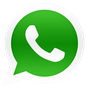
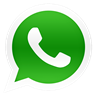
Corregir iconos WhatsApp y LinkedIn borrosos en pantallas retina.
Se elimina srcset conflictivo, se actualizan PNG en HD y se ajusta el hover en CSS.

diff --git a/index.html b/index.html
@@ -53,7 +53,7 @@
   <link rel="preconnect" href="https://fonts.googleapis.com">
   <link rel="preconnect" href="https://fonts.gstatic.com" crossorigin>
   <link href="https://fonts.googleapis.com/css2?family=Poppins:wght@300;400;600&display=swap" rel="stylesheet">
-  <link rel="stylesheet" href="./style.css?v=icons-hd">
+  <link rel="stylesheet" href="./style.css?v=icons-hd3">
 </head>
 
 <body>
@@ -71,11 +71,11 @@
       <div class="nav-actions header-dock" aria-label="Contacto rápido">
         <a class="icon-btn wa" href="https://wa.me/5492612084544" target="_blank" rel="noopener"
           aria-label="WhatsApp">
-          <img src="iconos/580b57fcd9996e24bc43c543.png" srcset="iconos/580b57fcd9996e24bc43c543-2x.png 2x" alt="WhatsApp" width="22" height="22" decoding="async">
+          <img src="iconos/580b57fcd9996e24bc43c543.png?v=icons-hd3" alt="WhatsApp" width="22" height="22" decoding="async">
         </a>
         <a class="icon-btn li" href="https://www.linkedin.com/in/adrian-fredes-8b57922b7" target="_blank"
           rel="noopener" aria-label="LinkedIn">
-          <img src="iconos/b1351064-f24b-4d0e-ba5a-2d9ef2cbc1e8.png" alt="LinkedIn" width="22" height="22" decoding="async">
+          <img src="iconos/b1351064-f24b-4d0e-ba5a-2d9ef2cbc1e8.png?v=icons-hd3" alt="LinkedIn" width="22" height="22" decoding="async">
         </a>
         <a class="icon-btn gh" href="https://github.com/adrianfredess" target="_blank" rel="noopener"
           aria-label="GitHub">
@@ -112,11 +112,11 @@
       <div class="mobile-actions" aria-label="Contacto rápido">
         <a class="icon-btn wa" href="https://wa.me/5492612084544" target="_blank" rel="noopener"
           aria-label="WhatsApp">
-          <img src="iconos/580b57fcd9996e24bc43c543.png" srcset="iconos/580b57fcd9996e24bc43c543-2x.png 2x" alt="WhatsApp" width="22" height="22" decoding="async">
+          <img src="iconos/580b57fcd9996e24bc43c543.png?v=icons-hd3" alt="WhatsApp" width="22" height="22" decoding="async">
         </a>
         <a class="icon-btn li" href="https://www.linkedin.com/in/adrian-fredes-8b57922b7" target="_blank"
           rel="noopener" aria-label="LinkedIn">
-          <img src="iconos/b1351064-f24b-4d0e-ba5a-2d9ef2cbc1e8.png" alt="LinkedIn" width="22" height="22" decoding="async">
+          <img src="iconos/b1351064-f24b-4d0e-ba5a-2d9ef2cbc1e8.png?v=icons-hd3" alt="LinkedIn" width="22" height="22" decoding="async">
         </a>
         <a class="icon-btn gh" href="https://github.com/adrianfredess" target="_blank" rel="noopener"
           aria-label="GitHub">
@@ -464,10 +464,10 @@
       </div>
       <div class="footer-actions">
         <a href="https://wa.me/5492612084544" class="icon-btn wa" target="_blank" aria-label="WhatsApp">
-          <img src="iconos/580b57fcd9996e24bc43c543.png" srcset="iconos/580b57fcd9996e24bc43c543-2x.png 2x" alt="WhatsApp" width="22" height="22" decoding="async">
+          <img src="iconos/580b57fcd9996e24bc43c543.png?v=icons-hd3" alt="WhatsApp" width="22" height="22" decoding="async">
         </a>
         <a href="https://linkedin.com/in/adrian-fredes" class="icon-btn li" target="_blank" aria-label="LinkedIn">
-          <img src="iconos/b1351064-f24b-4d0e-ba5a-2d9ef2cbc1e8.png" alt="LinkedIn" width="22" height="22" decoding="async">
+          <img src="iconos/b1351064-f24b-4d0e-ba5a-2d9ef2cbc1e8.png?v=icons-hd3" alt="LinkedIn" width="22" height="22" decoding="async">
         </a>
         <a href="https://github.com/adrianfredess" class="icon-btn gh" target="_blank" rel="noopener" aria-label="GitHub">
           <svg viewBox="0 0 24 24" fill="currentColor"><path d="M12 .297c-6.63 0-12 5.373-12 12 0 5.303 3.438 9.8 8.205 11.385.6.113.82-.258.82-.577 0-.285-.01-1.04-.015-2.04-3.338.724-4.042-1.61-4.042-1.61-.546-1.385-1.335-1.755-1.335-1.755-1.087-.744.084-.729.084-.729 1.205.084 1.838 1.236 1.838 1.236 1.07 1.835 2.809 1.305 3.495.998.108-.776.417-1.305.76-1.605-2.665-.3-5.466-1.332-5.466-5.93 0-1.31.465-2.38 1.235-3.22-.135-.303-.54-1.523.105-3.176 0 0 1.005-.322 3.3 1.23.96-.267 1.98-.399 3-.405 1.02.006 2.04.138 3 .405 2.28-1.552 3.285-1.23 3.285-1.23.645 1.653.24 2.873.12 3.176.765.84 1.23 1.91 1.23 3.22 0 4.61-2.805 5.625-5.475 5.92.42.36.81 1.096.81 2.22 0 1.606-.015 2.896-.015 3.286 0 .315.21.69.825.57C20.565 22.092 24 17.592 24 12.297c0-6.627-5.373-12-12-12"/></svg>

diff --git a/style.css b/style.css
@@ -175,7 +175,6 @@ body {
   height: 40px;
   border-radius: 10px;
   transform-origin: 50% 100%;
-  will-change: transform;
 }
 
 .header-dock .icon-btn:hover {
@@ -188,7 +187,6 @@ body {
   width: 22px;
   height: 22px;
   flex-shrink: 0;
-  image-rendering: auto;
 }
 
 .icon-btn {
@@ -220,7 +218,6 @@ body {
   width: 22px;
   height: 22px;
   display: block;
-  image-rendering: auto;
 }
 
 /* Colores por defecto de marca (sin fondo) */
@@ -250,7 +247,7 @@ body {
 }
 
 .icon-btn.li:hover img {
-  filter: brightness(1.1);
+  opacity: 0.92;
 }
 
 .icon-btn.gm:hover {
